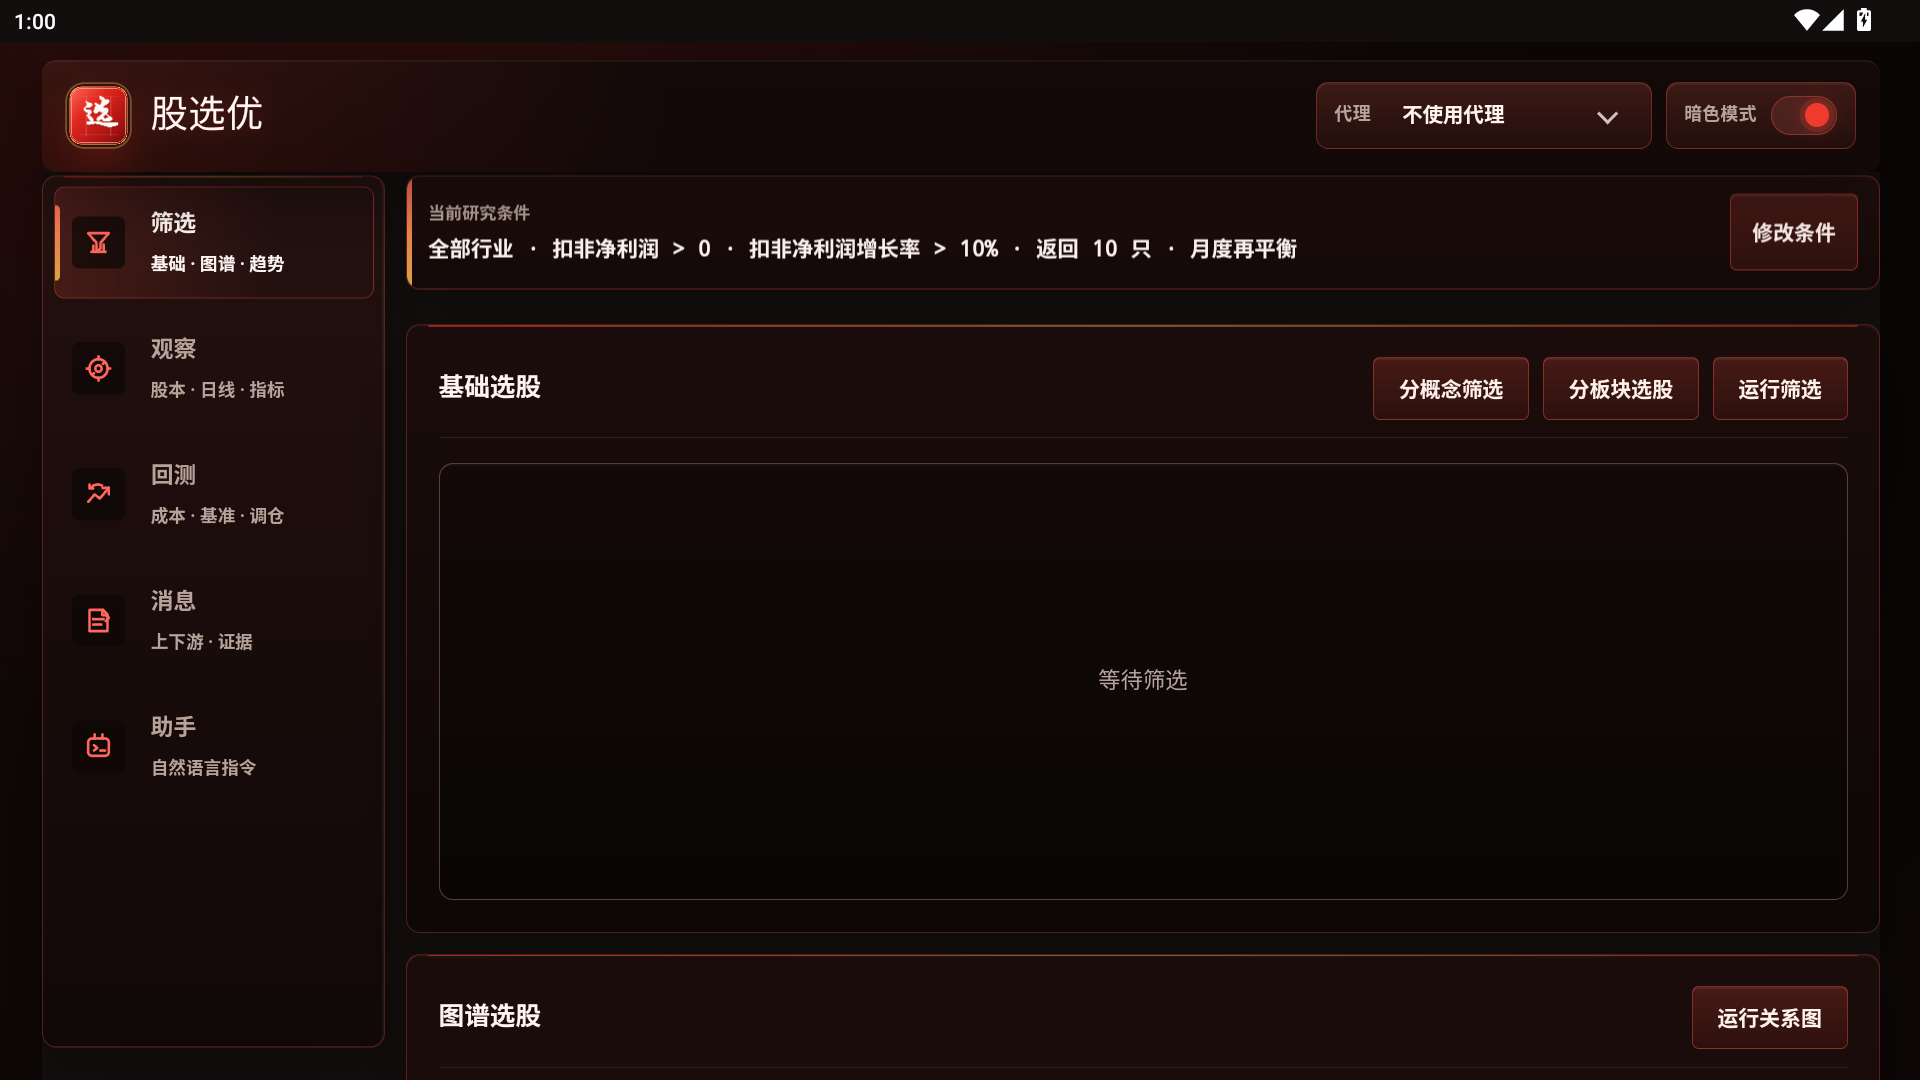
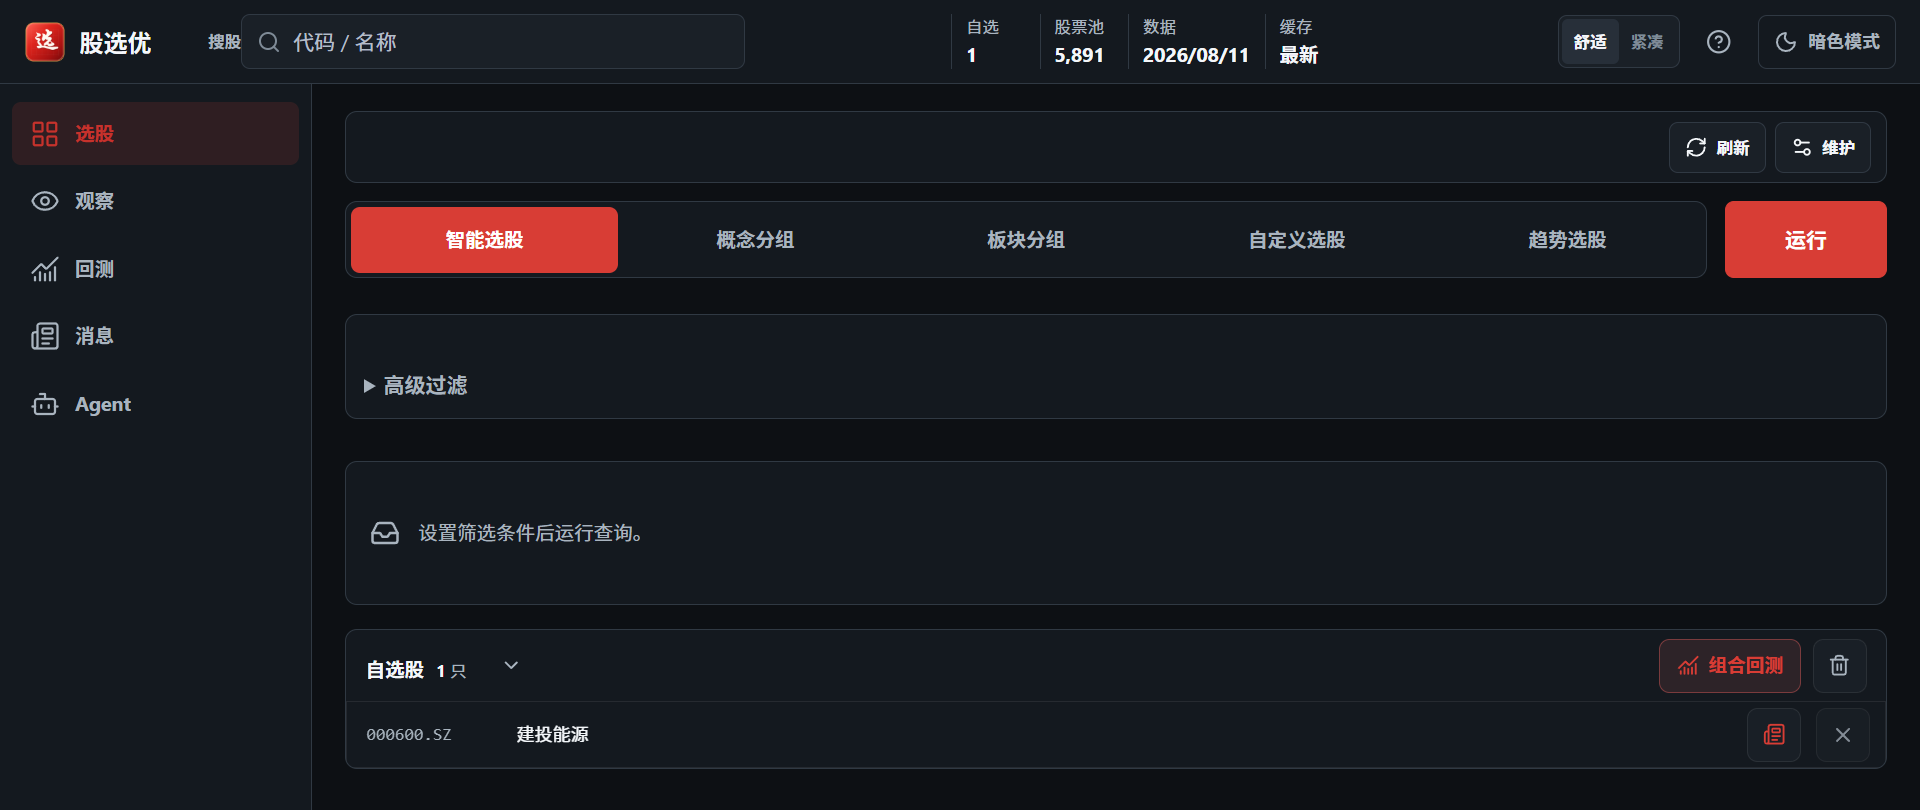
docs: refresh README screenshot and correct stale details
Replace the 2026-06-27 screenshot, which still showed the old 筛选/观察/回测/消息/助手
sidebar and the 基础选股 + 图谱选股 layout. The new capture is the current desktop
landing view at 1920x810.

Fix the Windows download hint: release assets are named _windows_x64_setup.exe, not
_x64-setup.exe.

Update the multi-strategy row to the five screening modes ScreenPanel actually offers
(智能选股 / 概念分组 / 板块分组 / 自定义选股 / 趋势选股) and note the adaptive_swing_v1 default.

diff --git a/README.md b/README.md
@@ -10,7 +10,7 @@
 
 请前往项目的 [GitHub Releases](https://github.com/tutict/gp-assistant/releases) 下载最新版：
 
-- **Windows 10/11 x64**：下载名称以 `_x64-setup.exe` 结尾的安装程序。
+- **Windows 10/11 x64**：下载名称以 `_windows_x64_setup.exe` 结尾的安装程序。
 - **Android 7.0 及以上**：下载名称以 `_android_aarch64_release_signed.apk` 结尾的安装包。
 
 Android 安装时如果系统提示“未知来源应用”，请只为当前文件来源临时授权。升级安装必须使用相同签名的 APK；正式发布包会保留一致的应用签名。
@@ -20,7 +20,7 @@ Android 安装时如果系统提示“未知来源应用”，请只为当前文
 | 模块 | 能力 |
 | --- | --- |
 | 选股 | 按估值、盈利质量、成长、风险、市值、行业与市场状态筛选，提供质量、趋势、风险和综合评分 |
-| 多策略筛选 | 支持基础筛选、行业/板块筛选、关系图筛选和趋势筛选，并可将结果加入自选池 |
+| 多策略筛选 | 提供智能选股、概念分组、板块分组、自定义选股和趋势选股五种模式，界面默认使用 adaptive_swing_v1，结果可加入自选池 |
 | 个股观察 | 汇总行情、总股本、流通股、EPS、财务质量、机构资金、量价状态和专业量化明细 |
 | K 线与指标 | 支持日 K、周 K、月 K，显示均线、MACD、KDJ、成交量、十字定位、缩放和手机横向全屏 |
 | 研究摘要 | 首屏提炼资金背离、趋势效率、波动状态和流动性风险，原始指标保留在专业明细中 |
